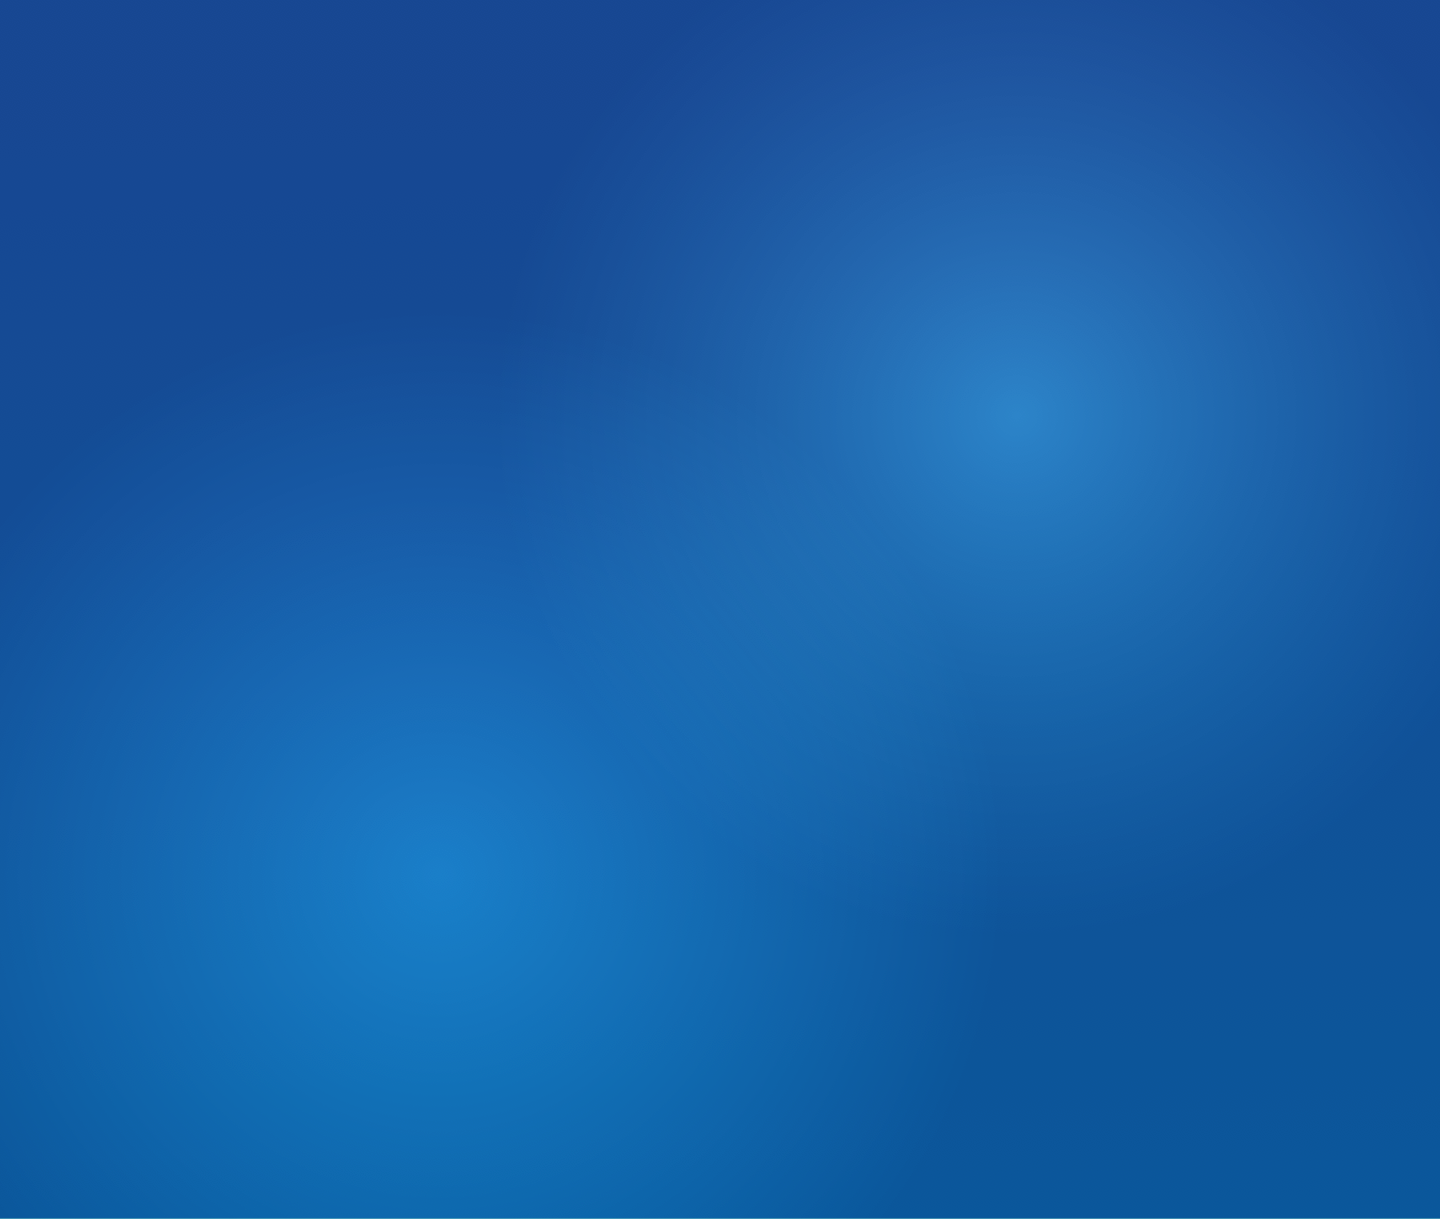
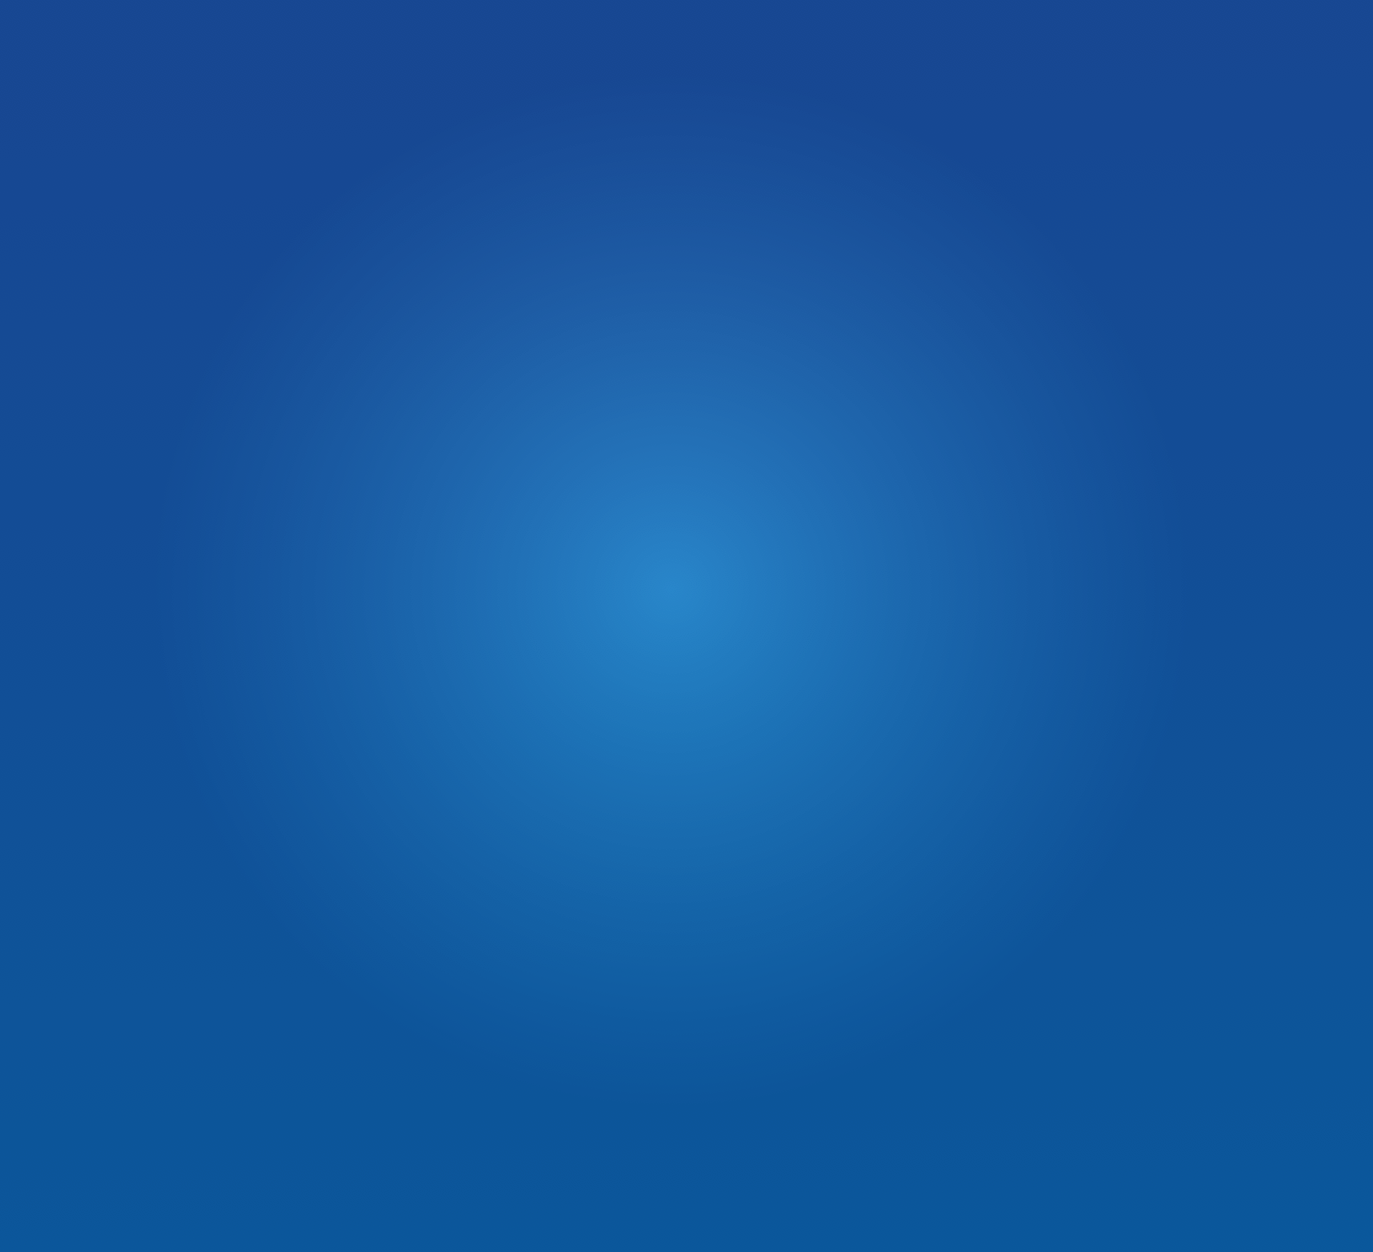
remove max-width on side, add center gradient on solution

diff --git a/app/assets/stylesheets/application.scss b/app/assets/stylesheets/application.scss
@@ -36,22 +36,22 @@ section {
   padding-bottom: 0;
 }
 
-.benefits,
-.our-vision,
-.roadmap,
-.solution,
-.status-quo,
-.team,
-.token {
-  @media (min-width: $large) {
-    max-width: 1440px;
-    margin: 0 auto;
-  }
-}
+// .benefits,
+// .our-vision,
+// .roadmap,
+// .solution,
+// .status-quo,
+// .team,
+// .token {
+//   @media (min-width: $large) {
+//     max-width: 1440px;
+//     margin: 0 auto;
+//   }
+// }
 
-.benefits, .roadmap {
-      background: #F6FBFF;
-}
+// .benefits, .roadmap {
+//       background: #F6FBFF;
+// }
 
 .benefits,
 .footer,

diff --git a/app/assets/stylesheets/homepage/_solution.scss b/app/assets/stylesheets/homepage/_solution.scss
@@ -9,11 +9,10 @@ section.solution {
   @media(min-width: $large) {
     padding-top: 150px;
     background: none;
-    /* Path: */
-    // background: #11539B image-url("solution_bg_gradient.png");
-    // background-size: contain;
-    // background-repeat: repeat-x;
-    // background-position: center;
+    background: #11539B image-url("solution_bg_gradient.png");
+    background-size: contain;
+    background-repeat: repeat-x;
+    background-position: center;
   }
 
   .solution-bg {
